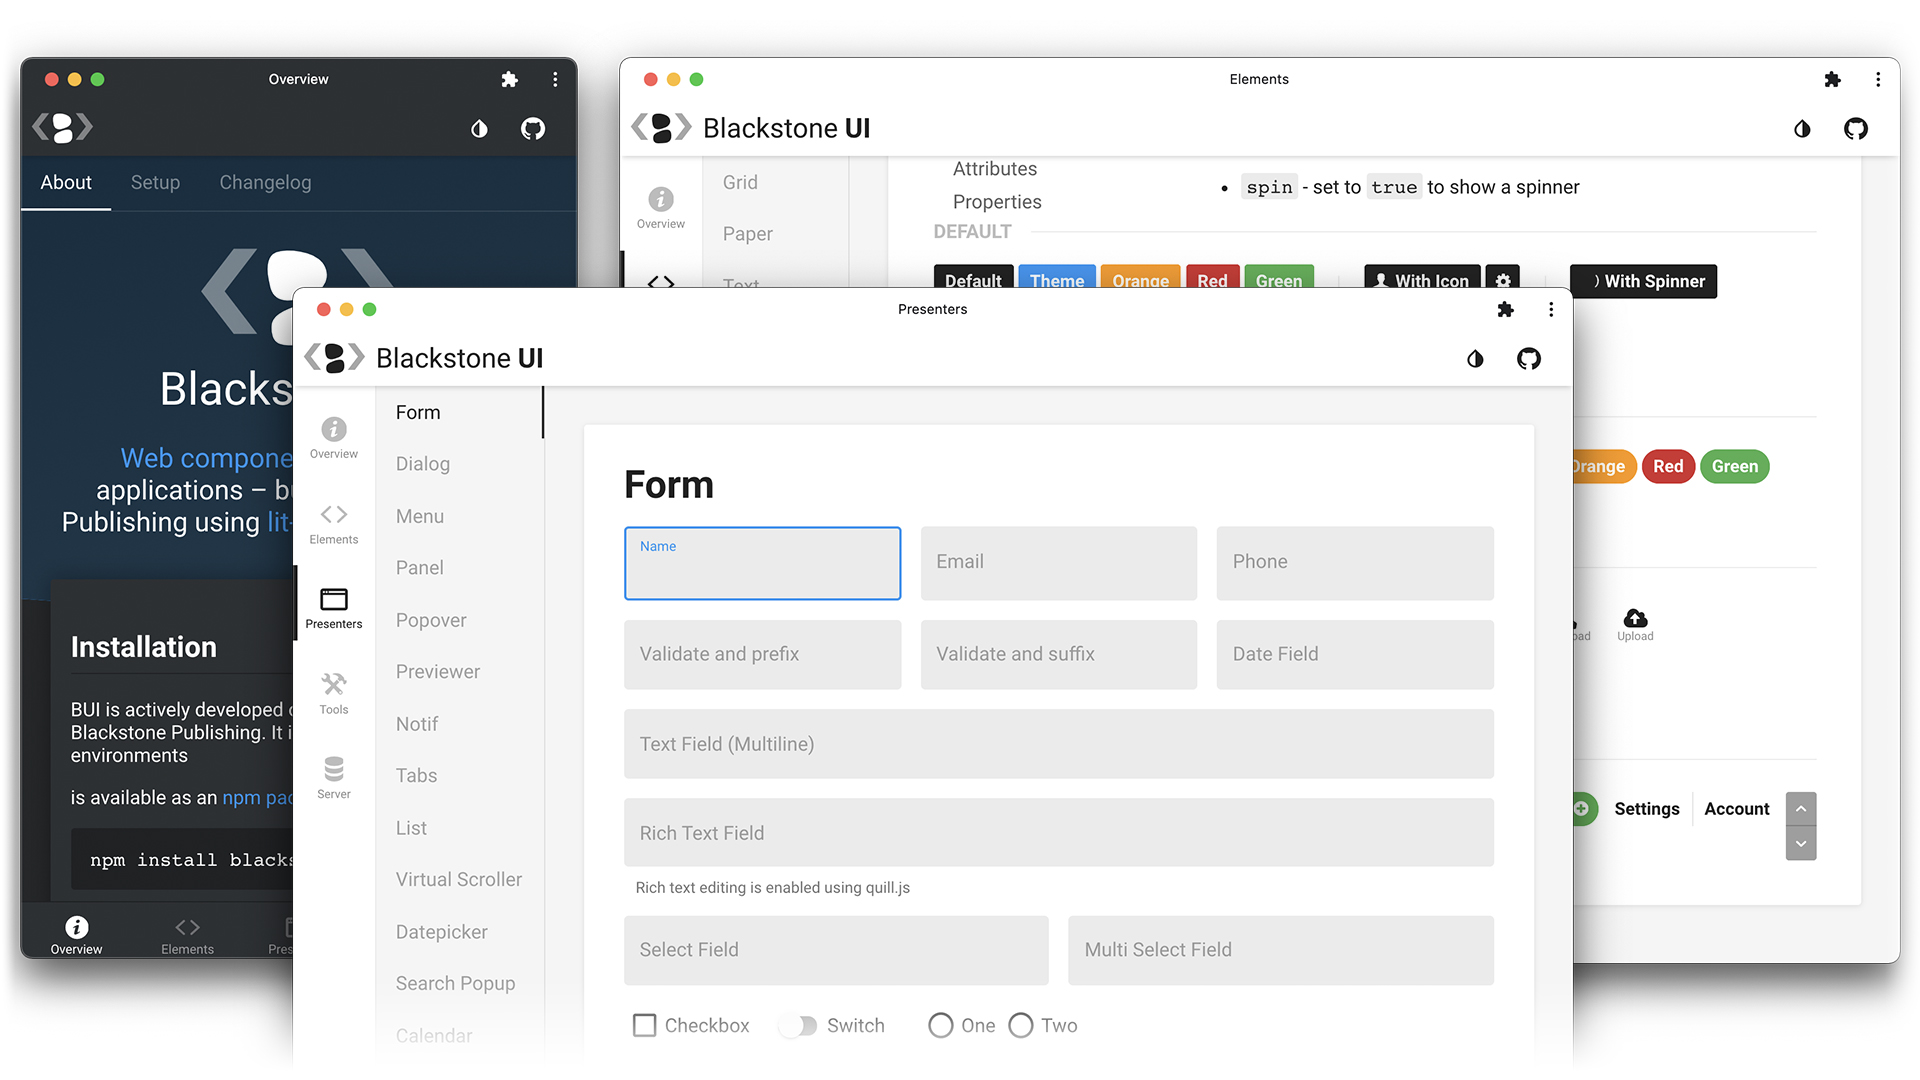
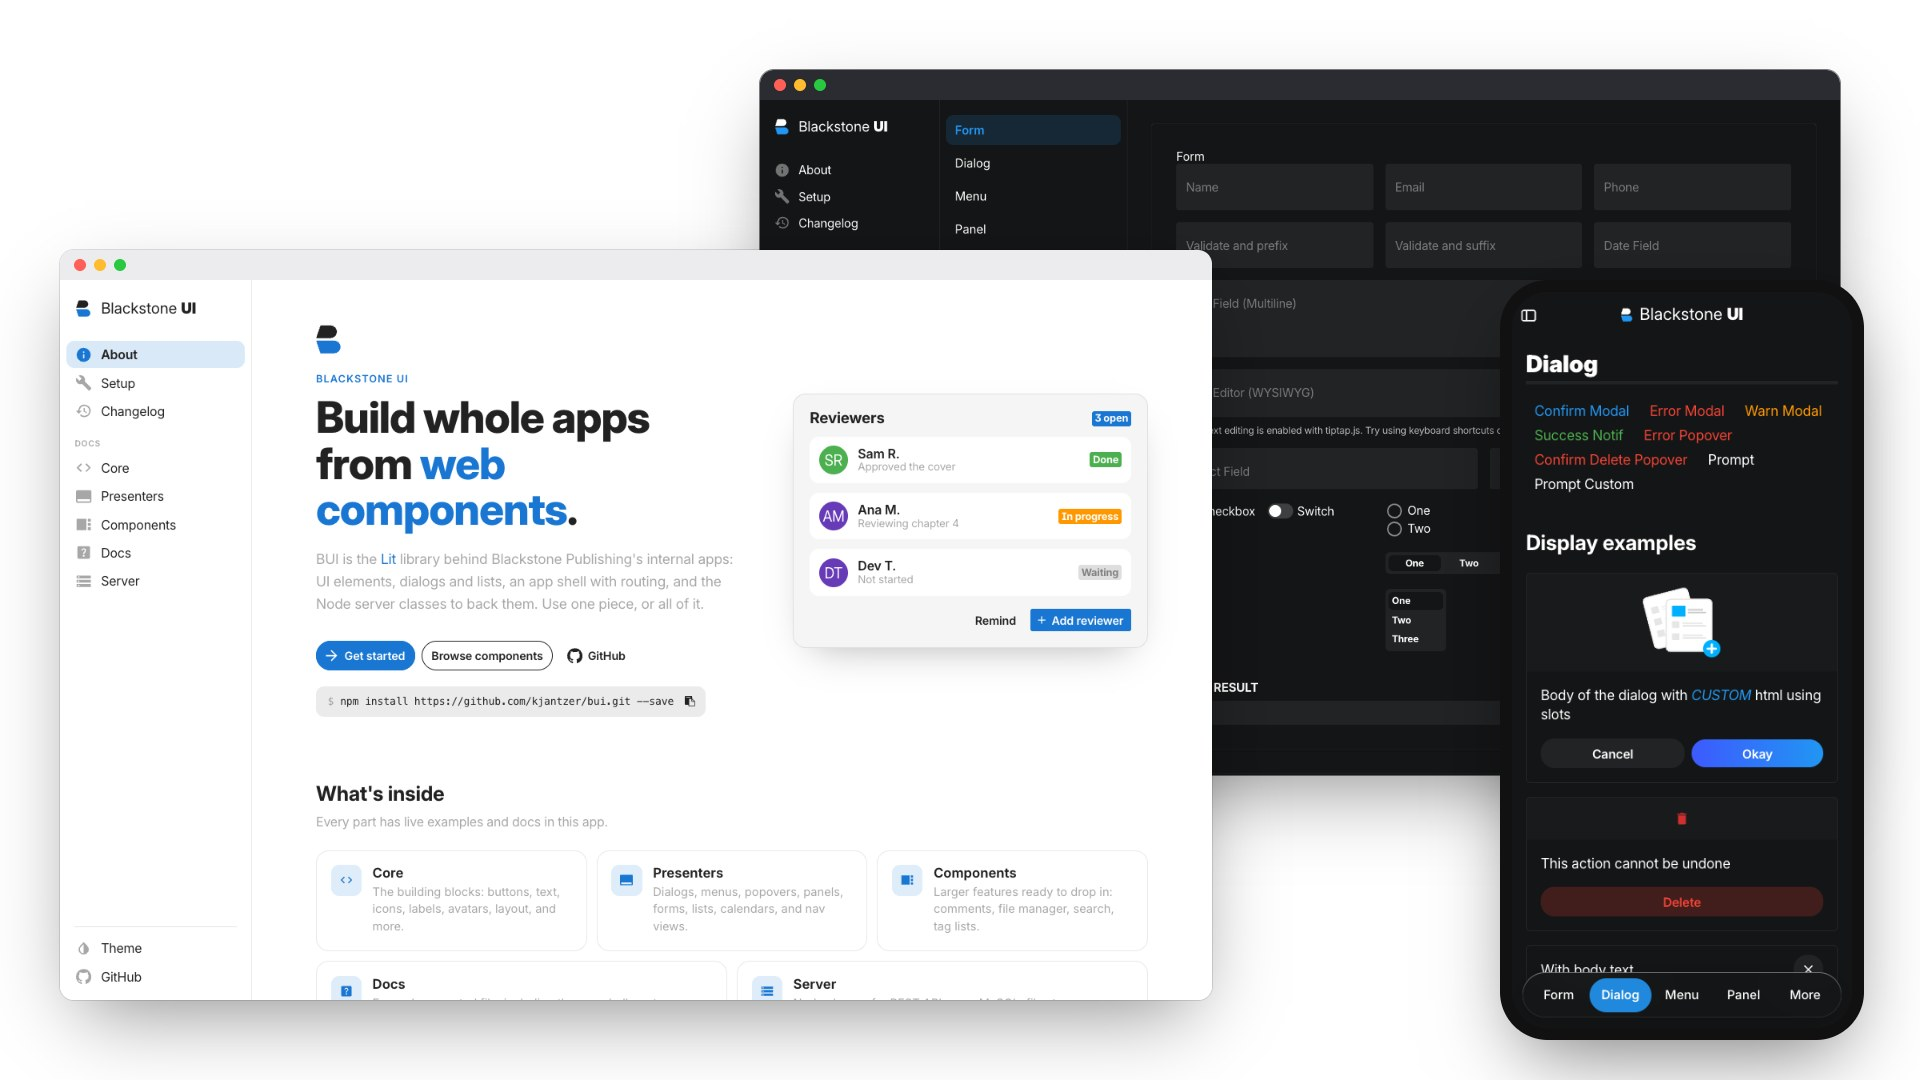
README: rewritten to match the demo's About page (what's inside, why, install, quick look, run the demo, status); new preview image
Claude-Session: https://claude.ai/code/session_01VFDSBY1UADRvLgeXTpxZ3t

diff --git a/README.md b/README.md
@@ -1,81 +1,89 @@
-
 <p align="center">
-  <a href="https://github.com/kjantzer/bui" rel="noopener" target="_blank">
+  <a href="https://bui.js.org" rel="noopener" target="_blank">
     <picture>
       <source media="(prefers-color-scheme: dark)" srcset="https://raw.githubusercontent.com/kjantzer/bui/master/logo-dark.png">
-      <img width="200" src="https://raw.githubusercontent.com/kjantzer/bui/master/logo.png"/>
+      <img width="160" src="https://raw.githubusercontent.com/kjantzer/bui/master/logo.png"/>
     </picture>
   </a>
 </p>
 
-<h1 align="center">Blackstone UI (BUI)</h1>
+<h1 align="center">Blackstone UI</h1>
 
-Web components for creating interfaces - built with [Lit](https://lit.dev/) by [Blackstone Publishing](https://blackstonepublishing.com)
+<p align="center">
+  Build whole apps from web components.<br>
+  The <a href="https://lit.dev">Lit</a> library behind <a href="https://www.blackstonepublishing.com">Blackstone Publishing</a>'s internal apps.
+</p>
 
-<div align="center">
+<p align="center">
+  <a href="https://bui.js.org"><b>Demo &amp; docs</b></a> ·
+  <a href="https://bui.js.org/#/setup">Setup</a> ·
+  <a href="./CHANGELOG.md">Changelog</a>
+</p>
 
-[![demo](https://img.shields.io/badge/-Demo%20&%20Documentation-blue)](https://bui.js.org)
+[![BUI demo: the about page, a form in dark mode, and the phone layout](./preview.jpg)](https://bui.js.org)
 
-</div>
+BUI has UI elements, dialogs and lists, an app shell with routing, and the Node server classes to back them. Use one piece, or all of it.
 
-[![preview](./preview.jpg)](https://bui.js.org)
+## What's inside
 
-## 🎉 Features
-- 📱 Progressive scaling from desktop to mobile devices
-- 🌗 Dark/Light Mode
-- 🎨 Color Themes
-- 🧑💻 Modern async/await style structure
-- 🛠 Customizable with css vars and "parts"
-- 🔗 Extensible and interoperable with other frameworks
-- ⚓ URL route management
+| | |
+|---|---|
+| **[Core](https://bui.js.org/#/elements)** `bui/elements` | The building blocks: buttons, text, icons, labels, avatars, layout, and more |
+| **[Presenters](https://bui.js.org/#/presenters)** `bui/presenters` | Dialogs, menus, popovers, panels, forms, lists, calendars, tabs, and nav views |
+| **[Components](https://bui.js.org/#/components)** `bui/components` | Larger features ready to drop in: comments, file manager, search, tag lists |
+| **App** `bui/app` | The app shell (sidebar, topbar, panels), router, views, and error handling |
+| **[Server](https://bui.js.org/#/server)** `bui/server` | Node classes for REST APIs over MySQL, file storage, search, and realtime sync |
+| **[Utilities](https://bui.js.org/#/docs)** `bui/util` `bui/helpers` | Small functions and Lit/Backbone helpers used throughout |
 
-## ℹ Overview
+Every part has live examples in the [demo](https://bui.js.org), and [Docs](https://bui.js.org/#/docs) lists every documented file.
 
-The stable release of v1 [web components](https://developer.mozilla.org/en-US/docs/Web/Web_Components) with the addition of [lit](https://lit.dev) make for an incredible framework for writing user interface components.
+## Why BUI
 
-Shadow DOM, CSS [custom properties](https://developer.mozilla.org/en-US/docs/Web/CSS/Using_CSS_custom_properties), and css ["parts"](https://developer.mozilla.org/en-US/docs/Web/CSS/::part) makes encapsulation easy yet still customizable.
+- **Any screen.** Layouts adapt on their own, from a desktop sidebar to a phone tab bar
+- **Themeable.** Light and dark modes and accent colors; restyle with CSS variables and `::part`
+- **Routed.** Views, tabs, and panels get URLs, so links, back, and forward just work
+- **Take what you need.** Import one element, or build a whole app on the shell. It all works with Lit
 
-**BUI is a library** of low level custom elements, full featured "presenters", useful utility functions, application router, code extension "helpers", node.js server classes (for creating RESTful APIs), and more. 
+## Install
 
-**Import and use a select few components or use most of it to create a full featured application.**
-
-⭐ The [demo/documention](http://bui.js.org/) is an example of what can be built with BUI and a good resource for reading more about what the library offers.
-
-## ⬇ Installation
-BUI is actively developed on a daily basis by [Blackstone Publishing](https://www.blackstonepublishing.com). It is used in multiple internal application production environments. New features, changes, and bug fixes occur weekly - however, it may be slower to reach this public repo.
-
-Although BUI is available as an [npm package](https://www.npmjs.com/package/blackstone-ui), the library is updated too frequently to publish consistent versions. 
-
-**Installing the latest is recommended:**
-
-```
+```bash
 npm install https://github.com/kjantzer/bui.git --save
 ```
 
-We will attempt to document *major breaking* changes in the changelog. If you find any bugs/issues, please report or submit a PR.
+BUI changes too often to publish consistent versions, so install it from GitHub rather than the (outdated) [npm package](https://www.npmjs.com/package/blackstone-ui). See [Setup](https://bui.js.org/#/setup) for bundler aliases, styles, and PWA setup.
 
-## 🚀 Getting Started
+## A quick look
 
-Cloning and runing the demo/docs locally on your computer would be a good place to start. From there you can see how the various components work together to create an application.
+Elements are plain HTML tags; presenters like dialogs are promises you await.
 
-Install parcel globally if you don't already have it installed
-```bash
-$ npm install -g parcel-bundler
+```js
+import { html } from 'lit'
+import 'bui/elements/btn'
+import Dialog from 'bui/presenters/dialog'
+
+async function remove(){
+    if( await Dialog.confirmDelete().modal() )
+        // ...
+}
+
+html`<b-btn icon="delete" color="red" @click=${remove}>Delete</b-btn>`
 ```
 
-Install the dependencies, then start the demo app
+## Run the demo
+
+The demo is the best way to see how the pieces fit together.
+
 ```bash
-$ git clone https://github.com/kjantzer/bui.git
-$ cd bui
-$ npm install
-$ npm start
+git clone https://github.com/kjantzer/bui.git
+cd bui
+npm install
+npm start
 ```
 
-You should then be able to view the demo at:  
-http://localhost:1234
+Then open http://localhost:1234
 
-## 🚨 Notice
+## Status
 
-Since BUI is actively developed nearly every day and done so by a small team, the documentation likely won't be 100% up to date. You may need to reference the physical code to discover some options/settings.
+BUI is developed almost daily by a small team at Blackstone Publishing and runs in production there, so the latest commit should be stable. Breaking changes are noted in the [changelog](./CHANGELOG.md).
 
-No software is bug free, but the latest commit of BUI should be fairly stable as it is used in a production environment at Blackstone.
+The docs can trail the code; when in doubt, the source is the reference. Found a bug? Please open an issue or a PR.
